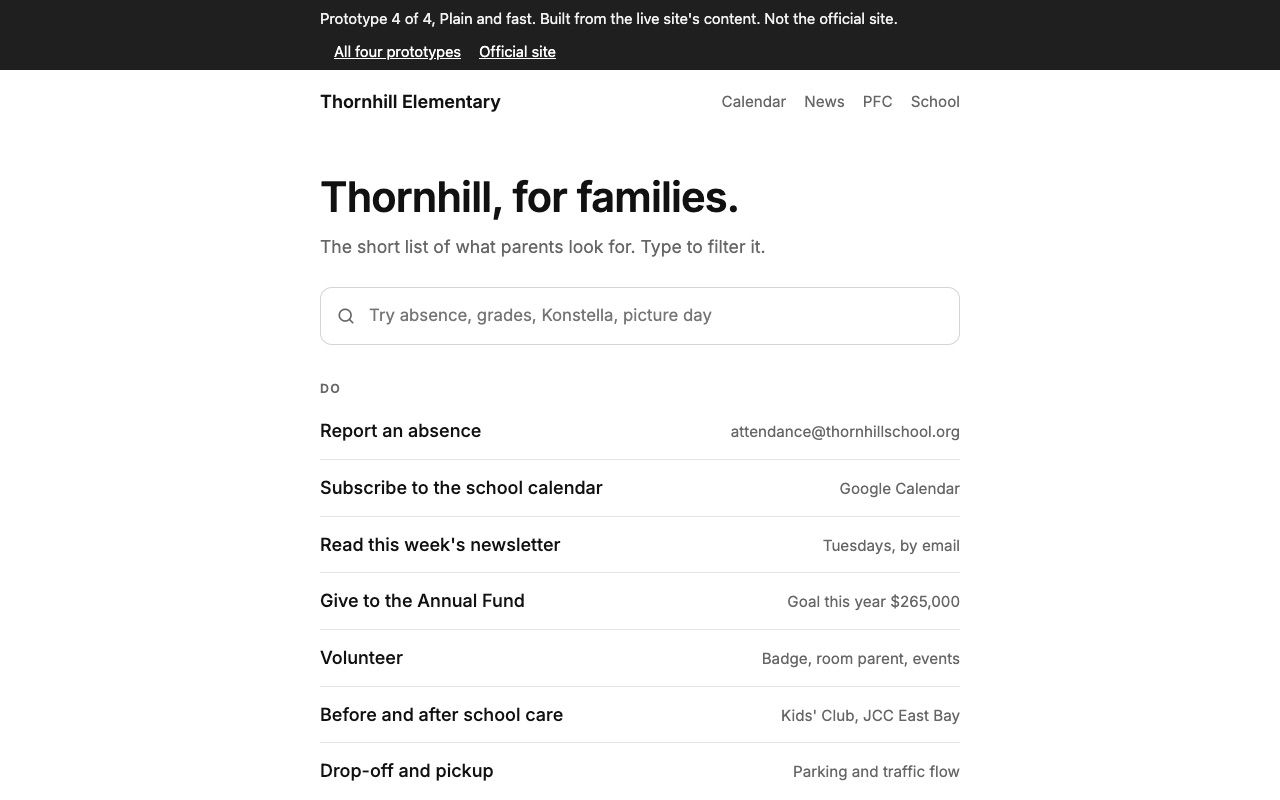
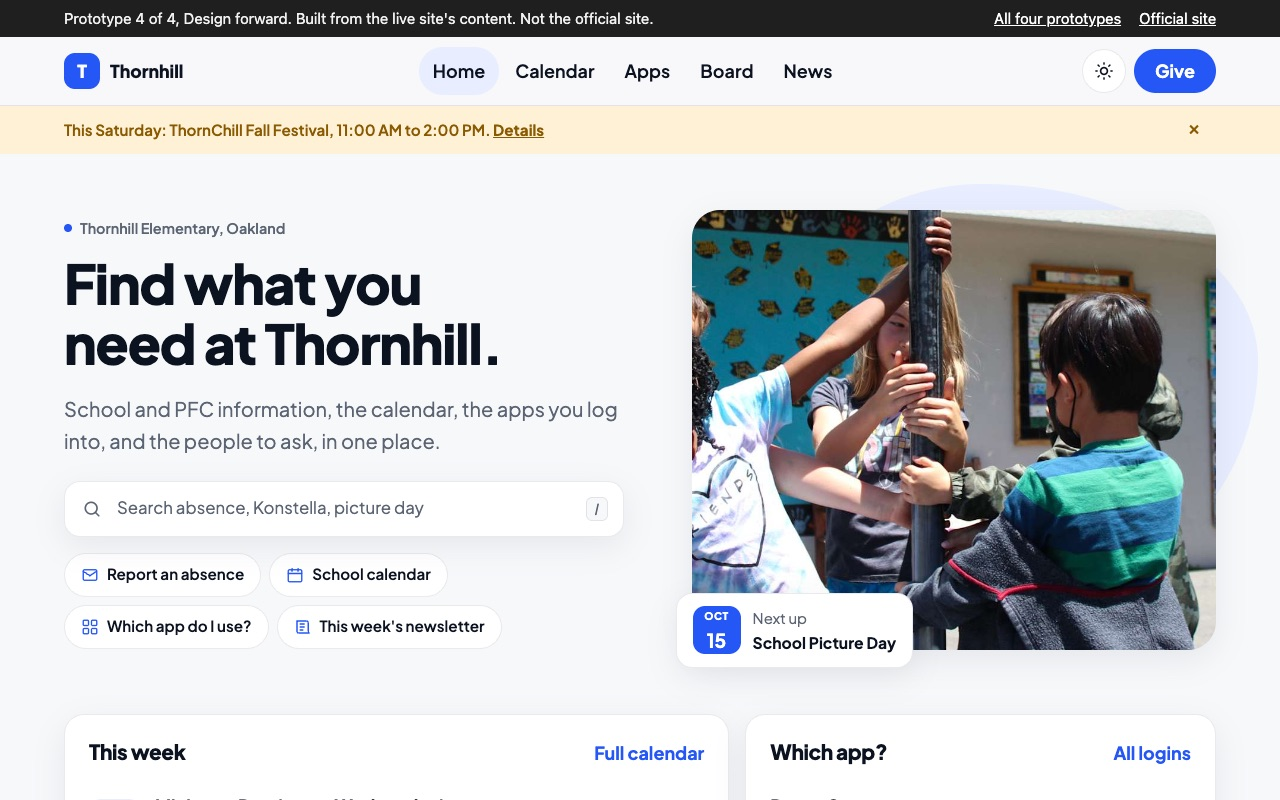
prototypes: replace plain P4 with design-forward build

diff --git a/prototypes/p4.html b/prototypes/p4.html
@@ -1,51 +1,88 @@
 <!doctype html><html lang="en"><head><meta charset="utf-8"><meta name="viewport" content="width=device-width,initial-scale=1">
-<title>Plain and fast | Thornhill prototype</title><meta name="description" content="Prototype homepage for Thornhill Elementary families.">
+<title>Design forward | Thornhill prototype</title><meta name="description" content="Prototype homepage for Thornhill Elementary families.">
 <link rel="preconnect" href="https://fonts.googleapis.com"><link rel="preconnect" href="https://fonts.gstatic.com" crossorigin>
-<link href="https://fonts.googleapis.com/css2?family=Inter:wght@400;500;600&display=swap" rel="stylesheet">
-<style>*{box-sizing:border-box}body{margin:0}img{max-width:100%;display:block}a:focus-visible,button:focus-visible,input:focus-visible{outline:3px solid currentColor;outline-offset:3px}.skip{position:absolute;left:-999px;top:8px;background:#111;color:#fff;padding:8px 12px;z-index:99}.skip:focus{left:8px}.proto{background:#1f1f1f;color:#f2f2f2;font:15px/1.4 system-ui,sans-serif;padding:8px 0}.proto .wrap{display:flex;gap:12px 20px;flex-wrap:wrap;justify-content:space-between}.proto a{color:#fff;margin-left:14px}:root{--ink:#111;--muted:#666;--line:#e6e6e6;--accent:#05397e;--bg:#fff}
-body{font-family:Inter,system-ui,sans-serif;font-size:18px;line-height:1.65;color:var(--ink);background:var(--bg)}
-.wrap{max-width:680px;margin:0 auto;padding:0 20px}
-header.top .wrap{display:flex;justify-content:space-between;align-items:center;height:64px;gap:12px}.brand{font-weight:600;text-decoration:none;color:var(--ink)}header nav{display:flex;gap:18px}header nav a{color:var(--muted);text-decoration:none;font-size:.95rem}header nav a:hover{color:var(--ink)}
-h1{font-size:clamp(2rem,5vw,2.6rem);font-weight:600;letter-spacing:-.02em;line-height:1.15;margin:40px 0 10px}p.lead{color:var(--muted);font-size:1.1rem;margin:0 0 26px}
-.search{position:relative;margin-bottom:34px}.search input{width:100%;font:inherit;font-size:1.05rem;padding:14px 16px 14px 48px;border:1.5px solid #d4d4d4;border-radius:12px;background:#fff}.search input:focus{border-color:var(--accent);outline:none;box-shadow:0 0 0 3px rgba(5,57,126,.12)}.search svg{position:absolute;left:16px;top:50%;width:20px;height:20px;margin-top:-10px;color:var(--muted)}
-section{margin:0 0 30px}h2{font-size:.78rem;font-weight:600;letter-spacing:.1em;text-transform:uppercase;color:var(--muted);margin:0 0 4px}
-ul{list-style:none;margin:0;padding:0}li{display:flex;justify-content:space-between;gap:16px;align-items:baseline;padding:13px 0;border-top:1px solid var(--line)}li:first-child{border-top:0}li a{color:var(--ink);text-decoration:none;font-weight:500}li a:hover{color:var(--accent);text-decoration:underline;text-underline-offset:4px}li span{color:var(--muted);font-size:.95rem;text-align:right;max-width:55%}
-.empty{display:none;color:var(--muted);padding:20px 0;border-top:1px solid var(--line)}
-footer{margin:60px 0 50px;color:var(--muted);font-size:.9rem;border-top:1px solid var(--line);padding-top:20px;line-height:1.8}footer a{color:var(--muted)}
-@media(max-width:480px){li{flex-direction:column;gap:2px}li span{max-width:none;text-align:left}header nav{gap:12px}header nav a{font-size:.85rem}.brand{white-space:nowrap}}
-</style></head><body><a class="skip" href="#main">Skip to content</a><div class="proto"><div class="wrap"><span>Prototype 4 of 4, Plain and fast. Built from the live site's content. Not the official site.</span><span><a href="index.html">All four prototypes</a> <a href="https://thornhill.ousd.org">Official site</a></span></div></div>
-<header class="top"><div class="wrap"><a class="brand" href="https://thornhill.ousd.org">Thornhill Elementary</a><nav aria-label="Main"><a href="https://thornhill.ousd.org/calendar">Calendar</a><a href="https://thornhill.ousd.org/resources/news">News</a><a href="https://thornhill.ousd.org/pfc">PFC</a><a href="https://thornhill.ousd.org/our-school">School</a></nav></div></header>
-<main id="main" class="wrap">
-<h1>Thornhill, for families.</h1><p class="lead">The short list of what parents look for. Type to filter it.</p>
-<div class="search"><svg viewBox="0 0 24 24" fill="none" stroke="currentColor" stroke-width="2" stroke-linecap="round"><circle cx="11" cy="11" r="7"/><path d="M20 20l-3.5-3.5"/></svg><input id="q" type="search" placeholder="Try absence, grades, Konstella, picture day" aria-label="Filter this page"></div>
-<section><h2>Do</h2><ul>
-<li data-s="report an absence attendance@thornhillschool.org sick absent"><a href="mailto:attendance@thornhillschool.org">Report an absence</a><span>attendance@thornhillschool.org</span></li>
-<li data-s="subscribe to the school calendar google calendar events dates"><a href="https://thornhill.ousd.org/calendar">Subscribe to the school calendar</a><span>Google Calendar</span></li>
-<li data-s="read this week's newsletter tuesdays, by email tuesday"><a href="https://thornhill.ousd.org/resources/stay-connected">Read this week's newsletter</a><span>Tuesdays, by email</span></li>
-<li data-s="give to the annual fund goal this year $265,000 donate money fundraising"><a href="https://thornhill.ousd.org/fundraising/annual-fund">Give to the Annual Fund</a><span>Goal this year $265,000</span></li>
-<li data-s="volunteer badge, room parent, events help"><a href="https://thornhill.ousd.org/resources/volunteer">Volunteer</a><span>Badge, room parent, events</span></li>
-<li data-s="before and after school care kids' club, jcc east bay aftercare"><a href="https://thornhill.ousd.org/resources/before-after-school-care">Before and after school care</a><span>Kids' Club, JCC East Bay</span></li>
-<li data-s="drop-off and pickup parking and traffic flow quick drop"><a href="https://thornhill.ousd.org/resources/parking-traffic-flow">Drop-off and pickup</a><span>Parking and traffic flow</span></li>
-</ul></section>
-<section><h2>Log in</h2><ul>
-<li data-s="parentsquare official messages from the district, principal scott, and teachers created automatically from the contact info on file. sign in with that email or mobile number."><a href="https://www.parentsquare.com/signin">ParentSquare</a><span>Official messages from the district, Principal Scott, and teachers</span></li><li data-s="konstella family directory, your child's classroom page, volunteer sign-ups, rsvps, and the newsletter archive. one parent per child gets an email invitation each august. missing it? email vpcommunications@thornhillschool.org."><a href="https://www.konstella.com">Konstella</a><span>Family directory, your child's classroom page, volunteer sign-ups, RSVPs, and the newsletter archive.</span></li><li data-s="aeries parent portal grades and the standards-based report card. needs your child's student id and a verification code from the school office."><a href="https://oaklandusd.aeries.net/student">Aeries Parent Portal</a><span>Grades and the standards-based report card.</span></li>
-<li data-s="all apps and common questions which is which, how to get in faq help stuck invite"><a href="https://justdansmith.github.io/thornhill-poc/apps.html">All apps and common questions</a><span>Which is which, how to get in</span></li>
-</ul></section>
-<section><h2>This week</h2><ul>
-<li data-s="minimum day (every wednesday) wed oct 14, all day "><a href="https://thornhill.ousd.org/calendar">Minimum Day (every Wednesday)</a><span>Wed Oct 14, All day</span></li><li data-s="school picture day thu oct 15, all day "><a href="https://thornhill.ousd.org/calendar">School Picture Day</a><span>Thu Oct 15, All day</span></li><li data-s="thornchill fall festival sat oct 17, 11:00 am to 2:00 pm "><a href="https://thornhill.ousd.org/calendar">ThornChill Fall Festival</a><span>Sat Oct 17, 11:00 AM to 2:00 PM</span></li>
-</ul></section>
-<section><h2>News</h2><ul>
-<li data-s="thornchill fall festival: rooted in our community sep 30 "><a href="https://thornhill.ousd.org/resources/news">ThornChill Fall Festival: Rooted In Our Community</a><span>Sep 30</span></li><li data-s="thornhill annual fund drive: week 3 update sep 22 "><a href="https://thornhill.ousd.org/resources/news">Thornhill Annual Fund Drive: Week 3 Update</a><span>Sep 22</span></li><li data-s="coffee with the principal: september recap sep 11 "><a href="https://thornhill.ousd.org/resources/news">Coffee with the Principal: September Recap</a><span>Sep 11</span></li>
-</ul></section>
-<section><h2>People</h2><ul>
-<li data-s="school office (510) 879-2157 absence call front desk"><a href="tel:+15108792157">School office</a><span>(510) 879-2157</span></li>
-<li data-s="pfc presidents, selam brown and jonathan yip president@thornhillschool.org board"><a href="mailto:president@thornhillschool.org">PFC Presidents, Selam Brown and Jonathan Yip</a><span>president@thornhillschool.org</span></li>
-<li data-s="communications and konstella, annie sartor vpcommunications@thornhillschool.org invite"><a href="mailto:vpcommunications@thornhillschool.org">Communications and Konstella, Annie Sartor</a><span>vpcommunications@thornhillschool.org</span></li>
-<li data-s="newsletter, priya aslam items by 8 pm thursday submit"><a href="mailto:newsletter@thornhillschool.org">Newsletter, Priya Aslam</a><span>Items by 8 PM Thursday</span></li>
-<li data-s="everyone on the pfc board roles, open seats, emails volunteer who"><a href="https://justdansmith.github.io/thornhill-poc/board.html">Everyone on the PFC board</a><span>Roles, open seats, emails</span></li>
-</ul></section>
-<p class="empty" id="empty">Nothing on this page matches. The office can help at <a href="tel:+15108792157">(510) 879-2157</a>.</p>
-<footer>Thornhill Elementary School<br>5880 Thornhill Drive, Oakland, CA 94611<br>Official site: <a href="https://thornhill.ousd.org">thornhill.ousd.org</a></footer>
+<link href="https://fonts.googleapis.com/css2?family=Plus+Jakarta+Sans:wght@400;600;700;800&display=swap" rel="stylesheet">
+<style>*{box-sizing:border-box}body{margin:0}img{max-width:100%;display:block}a:focus-visible,button:focus-visible,input:focus-visible{outline:3px solid currentColor;outline-offset:3px}.skip{position:absolute;left:-999px;top:8px;background:#111;color:#fff;padding:8px 12px;z-index:99}.skip:focus{left:8px}.proto{background:#1f1f1f;color:#f2f2f2;font:15px/1.4 system-ui,sans-serif;padding:8px 0}.proto .wrap{display:flex;gap:12px 20px;flex-wrap:wrap;justify-content:space-between}.proto a{color:#fff;margin-left:14px}:root{--bg:#F7F8FA;--surface:#FFFFFF;--ink:#0B1220;--muted:#5B6472;--line:rgba(11,18,32,.09);--accent:#2457F5;--accent-ink:#FFFFFF;--soft:#E8EEFF;--warm:#FFF1D6;--warm-ink:#8A5A00;--shadow:0 10px 30px rgba(11,18,32,.07);--r:20px;color-scheme:light}
+@media(prefers-color-scheme:dark){:root:not([data-theme=light]){--bg:#0B1220;--surface:#131B2E;--ink:#EEF2F8;--muted:#A3ADBD;--line:rgba(255,255,255,.1);--accent:#8AB0FF;--accent-ink:#0B1220;--soft:#1A2744;--warm:#3A2B0E;--warm-ink:#FFD58A;--shadow:0 10px 30px rgba(0,0,0,.35);color-scheme:dark}}
+:root[data-theme=dark]{--bg:#0B1220;--surface:#131B2E;--ink:#EEF2F8;--muted:#A3ADBD;--line:rgba(255,255,255,.1);--accent:#8AB0FF;--accent-ink:#0B1220;--soft:#1A2744;--warm:#3A2B0E;--warm-ink:#FFD58A;--shadow:0 10px 30px rgba(0,0,0,.35);color-scheme:dark}
+html{scroll-behavior:smooth}@media(prefers-reduced-motion:reduce){*,*::before,*::after{transition:none!important;animation:none!important;scroll-behavior:auto!important}}
+body{font-family:"Plus Jakarta Sans",system-ui,sans-serif;font-size:clamp(1rem,.95rem + .25vw,1.125rem);line-height:1.6;color:var(--ink);background:var(--bg)}
+h1,h2,h3{margin:0 0 .35em;line-height:1.1;letter-spacing:-.02em;font-weight:800}h1{font-size:clamp(2.3rem,1.5rem + 2.8vw,3.4rem);text-wrap:balance;max-width:16ch}h2{font-size:clamp(1.5rem,1.2rem + 1.2vw,2.1rem)}h3{font-size:1.1rem;letter-spacing:-.01em}p{margin:0 0 1em}a{color:var(--accent)}
+:focus-visible{outline:3px solid var(--accent);outline-offset:3px;border-radius:8px}
+.wrap{max-width:1200px;margin:0 auto;padding:0 24px}
+header.top{position:sticky;top:0;z-index:40;background:color-mix(in srgb,var(--bg) 82%,transparent);backdrop-filter:saturate(1.4) blur(14px);-webkit-backdrop-filter:saturate(1.4) blur(14px);border-bottom:1px solid var(--line)}
+header.top .wrap{display:flex;align-items:center;justify-content:space-between;gap:16px;height:68px}
+.brand{display:flex;align-items:center;gap:10px;text-decoration:none;color:var(--ink);font-weight:800;font-size:1.1rem}.brand .mark{width:36px;height:36px;border-radius:11px;background:var(--accent);color:var(--accent-ink);display:grid;place-items:center;font-weight:800}
+nav.main{display:flex;gap:2px}nav.main a{text-decoration:none;color:var(--ink);font-weight:600;padding:10px 14px;border-radius:999px;min-height:44px;display:inline-flex;align-items:center;white-space:nowrap}nav.main a:hover{background:var(--soft)}nav.main a[aria-current]{background:var(--soft)}
+.actions{display:flex;gap:8px;align-items:center}.icon-btn{width:44px;height:44px;border-radius:999px;border:1px solid var(--line);background:var(--surface);color:var(--ink);display:grid;place-items:center;cursor:pointer}.icon-btn svg{width:20px;height:20px}
+.btn{display:inline-flex;align-items:center;justify-content:center;gap:8px;min-height:44px;padding:0 20px;border-radius:999px;text-decoration:none;font-weight:700;border:1px solid transparent;cursor:pointer;font:inherit;font-weight:700;white-space:nowrap}.btn.primary{background:var(--accent);color:var(--accent-ink)}.btn.quiet{background:var(--surface);color:var(--ink);border-color:var(--line)}
+@media(max-width:900px){nav.main{display:none}}
+.ann{background:var(--warm);color:var(--warm-ink)}.ann .wrap{display:flex;align-items:center;gap:14px;min-height:48px;font-weight:600;font-size:.95rem}.ann a{color:inherit;font-weight:700}.ann button{margin-left:auto;background:transparent;border:0;color:inherit;width:44px;height:44px;cursor:pointer;border-radius:999px;font-size:1.3rem;line-height:1}.ann[hidden]{display:none}
+.hero{padding:56px 0 24px}.hero .wrap{display:grid;grid-template-columns:1.05fr .95fr;gap:48px;align-items:center}
+.eyebrow{display:inline-flex;align-items:center;gap:8px;color:var(--muted);font-weight:600;font-size:.9rem;margin-bottom:14px}.eyebrow::before{content:"";width:8px;height:8px;border-radius:50%;background:var(--accent)}
+.hero p.lead{font-size:clamp(1.05rem,1rem + .4vw,1.25rem);color:var(--muted);max-width:46ch;margin-bottom:24px}
+.search{position:relative;max-width:560px}.search input{width:100%;font:inherit;font-size:1.05rem;min-height:56px;padding:0 112px 0 52px;border:1px solid var(--line);border-radius:16px;background:var(--surface);color:var(--ink);box-shadow:var(--shadow)}.search input::placeholder{color:var(--muted)}.search input:focus{border-color:var(--accent);outline:none;box-shadow:0 0 0 4px color-mix(in srgb,var(--accent) 22%,transparent)}
+.search>svg{position:absolute;left:18px;top:18px;width:20px;height:20px;color:var(--muted);pointer-events:none}.search kbd{position:absolute;right:16px;top:16px;height:24px;padding:0 8px;border:1px solid var(--line);border-radius:6px;font:600 .75rem/22px system-ui;color:var(--muted);background:var(--bg)}
+.results{position:absolute;left:0;right:0;top:calc(100% + 8px);margin:0;padding:6px;list-style:none;background:var(--surface);border:1px solid var(--line);border-radius:16px;box-shadow:var(--shadow);z-index:30;max-height:360px;overflow:auto}.results[hidden]{display:none}.results li{border-radius:10px}.results a{display:flex;justify-content:space-between;gap:12px;align-items:baseline;padding:12px 14px;text-decoration:none;color:var(--ink);font-weight:600;min-height:44px}.results li[aria-selected=true] a,.results a:hover{background:var(--soft)}.results small{color:var(--muted);font-weight:500;white-space:nowrap}.results .none{padding:14px;color:var(--muted)}
+.chips{display:flex;flex-wrap:wrap;gap:8px;margin-top:16px}.chip{display:inline-flex;align-items:center;gap:8px;min-height:44px;padding:0 16px;border-radius:999px;border:1px solid var(--line);background:var(--surface);color:var(--ink);text-decoration:none;font-weight:600;font-size:.95rem}.chip:hover{border-color:var(--accent)}.chip svg{width:18px;height:18px;color:var(--accent)}
+.photo{position:relative}.photo::before{content:"";position:absolute;inset:-6% -8% 10% 14%;background:var(--soft);border-radius:44% 56% 52% 48%/48% 42% 58% 52%;z-index:0}.photo img{position:relative;z-index:1;border-radius:28px;width:100%;height:440px;object-fit:cover;box-shadow:var(--shadow)}
+.float{position:absolute;z-index:2;left:-16px;bottom:-18px;background:var(--surface);border:1px solid var(--line);border-radius:16px;padding:12px 16px;box-shadow:var(--shadow);display:flex;gap:12px;align-items:center}.float .d{display:grid;place-items:center;background:var(--accent);color:var(--accent-ink);border-radius:12px;width:48px;height:48px;line-height:1}.float .d span{font-size:.65rem;text-transform:uppercase;letter-spacing:.06em;font-weight:800}.float .d b{font-size:1.2rem}.float small{display:block;color:var(--muted)}.float b.t{display:block;font-size:.98rem}
+section{padding:40px 0}
+.bento{display:grid;grid-template-columns:repeat(12,1fr);gap:16px}.tile{background:var(--surface);border:1px solid var(--line);border-radius:var(--r);padding:24px;box-shadow:var(--shadow);display:flex;flex-direction:column;gap:12px;transition:transform .15s}.tile:hover{transform:translateY(-2px)}
+.tile.s7{grid-column:span 7}.tile.s5{grid-column:span 5}.tile.s4{grid-column:span 4}.tile.s12{grid-column:span 12}
+.tile .head{display:flex;justify-content:space-between;align-items:baseline;gap:12px}.tile .head a{font-weight:700;text-decoration:none;white-space:nowrap}.tile .head h2{flex:1;font-size:1.3rem;margin:0}
+ul.ev{list-style:none;margin:0;padding:0}li.ev{display:grid;grid-template-columns:52px 1fr;gap:14px;align-items:center;padding:12px 0;border-top:1px solid var(--line)}li.ev:first-child{border-top:0}.ev .d{display:grid;place-items:center;background:var(--soft);color:var(--ink);border-radius:12px;padding:6px 0;line-height:1}.ev .d .m{font-size:.65rem;text-transform:uppercase;letter-spacing:.06em;font-weight:800;color:var(--accent)}.ev .d .n{font-size:1.25rem;font-weight:800}.ev .t b{display:block}.ev .t small{color:var(--muted)}
+ul.rows{list-style:none;margin:0;padding:0}ul.rows li{border-top:1px solid var(--line)}ul.rows li:first-child{border-top:0}ul.rows a{display:flex;justify-content:space-between;align-items:center;gap:12px;padding:12px 0;text-decoration:none;color:var(--ink);min-height:44px}ul.rows b{display:block;font-weight:700}ul.rows small{display:block;color:var(--muted)}ul.rows svg{width:18px;height:18px;color:var(--muted);flex:none}
+.big{font-size:clamp(1.6rem,1.3rem + 1.4vw,2.3rem);font-weight:800;letter-spacing:-.02em;line-height:1}.tile p.m{color:var(--muted);margin:0}.tile .spacer{flex:1}
+.faces{display:flex}.faces span{width:40px;height:40px;border-radius:50%;background:var(--soft);color:var(--accent);font-weight:800;font-size:.85rem;display:grid;place-items:center;border:2px solid var(--surface);margin-left:-8px}.faces span:first-child{margin-left:0}
+details{border-top:1px solid var(--line)}details:first-of-type{border-top:0}summary{cursor:pointer;list-style:none;display:flex;justify-content:space-between;gap:16px;align-items:center;padding:16px 0;font-weight:700;min-height:44px}summary::-webkit-details-marker{display:none}summary::after{content:"+";color:var(--accent);font-size:1.4rem;font-weight:400;line-height:1}details[open] summary::after{content:"\2212"}details p{color:var(--muted);margin:0 0 16px;max-width:70ch}
+.qa{background:var(--surface);border:1px solid var(--line);border-radius:var(--r);padding:8px 24px;box-shadow:var(--shadow)}
+.news{display:grid;grid-template-columns:repeat(3,1fr);gap:16px}.nc{background:var(--surface);border:1px solid var(--line);border-radius:var(--r);overflow:hidden;text-decoration:none;color:var(--ink);box-shadow:var(--shadow);display:flex;flex-direction:column}.nc img{width:100%;aspect-ratio:615/479;object-fit:cover}.nc .pad{padding:18px 20px}.nc small{color:var(--muted);display:block;margin-bottom:6px;font-weight:600}.nc b{font-weight:700;line-height:1.3}
+footer{border-top:1px solid var(--line);padding:40px 0 100px;color:var(--muted);font-size:.95rem}footer .wrap{display:grid;grid-template-columns:1.4fr 1fr 1fr;gap:28px}footer a{color:var(--ink)}footer b{color:var(--ink)}
+.bar{display:none}@media(max-width:900px){.bar{display:grid;grid-template-columns:repeat(4,1fr);position:fixed;bottom:0;left:0;right:0;z-index:40;background:color-mix(in srgb,var(--surface) 90%,transparent);backdrop-filter:blur(14px);-webkit-backdrop-filter:blur(14px);border-top:1px solid var(--line);padding:6px 0 max(8px,env(safe-area-inset-bottom))}.bar a{text-decoration:none;color:var(--muted);font-size:.72rem;font-weight:700;display:grid;justify-items:center;gap:3px;min-height:56px;align-content:center}.bar a[aria-current]{color:var(--accent)}.bar svg{width:22px;height:22px}}
+@media(max-width:900px){.hero .wrap{grid-template-columns:1fr;gap:36px}.photo img{height:260px}.float{left:12px;bottom:-14px}.tile.s7,.tile.s5,.tile.s4{grid-column:span 12}.news,footer .wrap{grid-template-columns:1fr}footer{padding-bottom:110px}.search input{padding-right:16px}.search kbd{display:none}}
+@media(min-width:901px) and (max-width:1100px){.tile.s4{grid-column:span 6}}
+</style></head><body><a class="skip" href="#main">Skip to content</a><div class="proto"><div class="wrap"><span>Prototype 4 of 4, Design forward. Built from the live site's content. Not the official site.</span><span><a href="index.html">All four prototypes</a> <a href="https://thornhill.ousd.org">Official site</a></span></div></div>
+<header class="top"><div class="wrap"><a class="brand" href="#"><span class="mark">T</span>Thornhill</a>
+<nav class="main" aria-label="Main"><a href="#" aria-current="page">Home</a><a href="https://thornhill.ousd.org/calendar">Calendar</a><a href="https://justdansmith.github.io/thornhill-poc/apps.html">Apps</a><a href="https://justdansmith.github.io/thornhill-poc/board.html">Board</a><a href="https://thornhill.ousd.org/resources/news">News</a></nav>
+<div class="actions"><button class="icon-btn" id="theme" type="button" aria-pressed="false" aria-label="Switch to dark theme" title="Theme"><svg viewBox="0 0 24 24" fill="none" stroke="currentColor" stroke-width="2" stroke-linecap="round"><circle cx="12" cy="12" r="4"/><path d="M12 2v2M12 20v2M4.9 4.9l1.4 1.4M17.7 17.7l1.4 1.4M2 12h2M20 12h2M4.9 19.1l1.4-1.4M17.7 6.3l1.4-1.4"/></svg></button><a class="btn primary" href="https://thornhill.ousd.org/fundraising/annual-fund">Give</a></div></div></header>
+<div class="ann" id="ann" role="region" aria-label="Announcement"><div class="wrap"><span>This Saturday: ThornChill Fall Festival, 11:00 AM to 2:00 PM. <a href="https://thornhill.ousd.org/resources/news">Details</a></span><button type="button" id="dismiss" aria-label="Dismiss announcement">&times;</button></div></div>
+<main id="main">
+<section class="hero"><div class="wrap"><div><span class="eyebrow">Thornhill Elementary, Oakland</span><h1>Find what you need at Thornhill.</h1><p class="lead">School and PFC information, the calendar, the apps you log into, and the people to ask, in one place.</p>
+<div class="search"><svg viewBox="0 0 24 24" fill="none" stroke="currentColor" stroke-width="2" stroke-linecap="round"><circle cx="11" cy="11" r="7"/><path d="M20 20l-3.5-3.5"/></svg><input id="q" type="search" role="combobox" aria-expanded="false" aria-controls="results" aria-autocomplete="list" autocomplete="off" placeholder="Search absence, Konstella, picture day"><kbd>/</kbd><ul id="results" class="results" role="listbox" aria-label="Results" hidden></ul></div>
+<div class="chips"><a class="chip" href="mailto:attendance@thornhillschool.org"><svg viewBox="0 0 24 24" fill="none" stroke="currentColor" stroke-width="1.8" stroke-linecap="round"><rect x="3" y="5" width="18" height="14" rx="2"/><path d="M3 7l9 6 9-6"/></svg>Report an absence</a><a class="chip" href="https://thornhill.ousd.org/calendar"><svg viewBox="0 0 24 24" fill="none" stroke="currentColor" stroke-width="1.8" stroke-linecap="round"><rect x="3" y="5" width="18" height="16" rx="2"/><path d="M3 10h18M8 3v4M16 3v4"/></svg>School calendar</a><a class="chip" href="https://justdansmith.github.io/thornhill-poc/apps.html"><svg viewBox="0 0 24 24" fill="none" stroke="currentColor" stroke-width="1.8"><rect x="3" y="3" width="7" height="7" rx="1.5"/><rect x="14" y="3" width="7" height="7" rx="1.5"/><rect x="3" y="14" width="7" height="7" rx="1.5"/><rect x="14" y="14" width="7" height="7" rx="1.5"/></svg>Which app do I use?</a><a class="chip" href="https://thornhill.ousd.org/resources/stay-connected"><svg viewBox="0 0 24 24" fill="none" stroke="currentColor" stroke-width="1.8" stroke-linecap="round"><path d="M4 4h13a2 2 0 0 1 2 2v12a2 2 0 0 0 2 2H6a2 2 0 0 1-2-2z"/><path d="M8 8h6M8 12h6M8 16h4"/></svg>This week's newsletter</a></div></div>
+<div class="photo"><img src="img/hero.jpg" alt="Thornhill students laughing together in the schoolyard" width="1600" height="740"><div class="float"><div class="d"><span>Oct</span><b>15</b></div><div><small>Next up</small><b class="t">School Picture Day</b></div></div></div></div></section>
+<section><div class="wrap"><div class="bento">
+<div class="tile s7"><div class="head"><h2>This week</h2><a href="https://thornhill.ousd.org/calendar">Full calendar</a></div><ul class="ev"><li class="ev"><span class="d"><span class="m">Oct</span><span class="n">14</span></span><span class="t"><b>Minimum Day (every Wednesday)</b><small>Wed, All day</small></span></li><li class="ev"><span class="d"><span class="m">Oct</span><span class="n">15</span></span><span class="t"><b>School Picture Day</b><small>Thu, All day</small></span></li><li class="ev"><span class="d"><span class="m">Oct</span><span class="n">17</span></span><span class="t"><b>ThornChill Fall Festival</b><small>Sat, 11:00 AM to 2:00 PM</small></span></li></ul></div>
+<div class="tile s5"><div class="head"><h2>Which app?</h2><a href="https://justdansmith.github.io/thornhill-poc/apps.html">All logins</a></div><ul class="rows"><li><a href="https://www.parentsquare.com/signin"><span><b>ParentSquare</b><small>Official messages from the district, Principal Scott, and teachers</small></span><svg viewBox="0 0 24 24" fill="none" stroke="currentColor" stroke-width="2" stroke-linecap="round" stroke-linejoin="round"><path d="M5 12h14M13 6l6 6-6 6"/></svg></a></li><li><a href="https://www.konstella.com"><span><b>Konstella</b><small>Family directory, your child's classroom page, volunteer sign-ups, RSVPs, and the newsletter archive.</small></span><svg viewBox="0 0 24 24" fill="none" stroke="currentColor" stroke-width="2" stroke-linecap="round" stroke-linejoin="round"><path d="M5 12h14M13 6l6 6-6 6"/></svg></a></li><li><a href="https://oaklandusd.aeries.net/student"><span><b>Aeries Parent Portal</b><small>Grades and the standards-based report card.</small></span><svg viewBox="0 0 24 24" fill="none" stroke="currentColor" stroke-width="2" stroke-linecap="round" stroke-linejoin="round"><path d="M5 12h14M13 6l6 6-6 6"/></svg></a></li></ul></div>
+<div class="tile s4"><h2 style="font-size:1.3rem;margin:0">Annual Fund</h2><div class="big">$265,000</div><p class="m">This year's goal. The PFC spends about $1,100 per child each year beyond what the state funds.</p><div class="spacer"></div><a class="btn primary" href="https://thornhill.ousd.org/fundraising/annual-fund">Give today</a></div>
+<div class="tile s4"><h2 style="font-size:1.3rem;margin:0">Volunteer</h2><p class="m">Classroom and field trip help needs a green clearance badge from the Oakland Ed Fund. Event days and room parent roles are open to everyone.</p><div class="spacer"></div><a class="btn quiet" href="https://thornhill.ousd.org/resources/volunteer">How to start</a></div>
+<div class="tile s4"><h2 style="font-size:1.3rem;margin:0">The PFC board</h2><div class="faces" aria-hidden="true"><span>SB</span><span>JY</span><span>AS</span><span>VS</span><span>PA</span></div><p class="m">Parents who run the PFC, what each role does, and who to email. Open roles include Auction Chair, Auditor, and Site and Safety.</p><div class="spacer"></div><a class="btn quiet" href="https://justdansmith.github.io/thornhill-poc/board.html">Meet the board</a></div>
+</div></div></section>
+<section><div class="wrap"><h2>Quick answers</h2><div class="qa"><details id="qa0"><summary>I just enrolled. What do I set up first?</summary><p>Three things. Check that ParentSquare messages reach you (the school office can confirm your email and phone). Accept the Konstella invitation that arrives in August, or request one from vpcommunications@thornhillschool.org. Subscribe to the school calendar.</p></details><details id="qa1"><summary>How do I report an absence?</summary><p>Email attendance@thornhillschool.org (preferred) or call the office at (510) 879-2157 and leave a voicemail.</p></details><details id="qa2"><summary>Which app has my child's grades?</summary><p>The Aeries Parent Portal at oaklandusd.aeries.net/student. For elementary report cards, choose Grades, then Standards Based Report Card.</p></details><details id="qa3"><summary>I never got a Konstella invite.</summary><p>One parent per child receives the August invitation. Email vpcommunications@thornhillschool.org with your child's name, grade, and classroom and the PFC will send one.</p></details><details id="qa4"><summary>How do I get something into the newsletter?</summary><p>Email the article and any photo to newsletter@thornhillschool.org by 8 PM Thursday. It goes out Tuesday.</p></details><details id="qa5"><summary>What does the PFC actually pay for?</summary><p>The library and librarian, music for every grade, PE, teacher aides, the art program, the garden, technology, and more. The PFC spends about $1,100 per child each year beyond what the state funds. The Annual Fund goal this year is $265,000.</p></details></div></div></section>
+<section><div class="wrap"><div class="head" style="display:flex;justify-content:space-between;align-items:baseline;gap:16px;margin-bottom:16px"><h2 style="margin:0">Latest news</h2><a href="https://thornhill.ousd.org/resources/news" style="font-weight:700;text-decoration:none;white-space:nowrap">All news</a></div><div class="news"><a class="nc" href="https://thornhill.ousd.org/resources/news"><img src="img/thornchill.png" alt="ThornChill Fall Festival poster" width="615" height="479"><div class="pad"><small>Sep 30</small><b>ThornChill Fall Festival: Rooted In Our Community</b></div></a><a class="nc" href="https://thornhill.ousd.org/resources/news"><div class="pad"><small>Sep 22</small><b>Thornhill Annual Fund Drive: Week 3 Update</b></div></a><a class="nc" href="https://thornhill.ousd.org/resources/news"><div class="pad"><small>Sep 11</small><b>Coffee with the Principal: September Recap</b></div></a></div></div></section>
 </main>
-<script>const q=document.getElementById('q'),items=[...document.querySelectorAll('li[data-s]')],secs=[...document.querySelectorAll('main section')],empty=document.getElementById('empty');q.addEventListener('input',()=>{const s=q.value.trim().toLowerCase();let any=0;items.forEach(l=>{const ok=!s||l.dataset.s.includes(s);l.hidden=!ok;if(ok)any++});secs.forEach(x=>x.hidden=![...x.querySelectorAll('li')].some(l=>!l.hidden));empty.style.display=any?'none':'block'});</script>
+<footer><div class="wrap"><div><b>Thornhill Elementary School</b><br>5880 Thornhill Drive, Oakland, CA 94611<br><a href="tel:+15108792157">(510) 879-2157</a><br><br>Page updated October 13, 2026.</div><div><b>School</b><br><a href="https://thornhill.ousd.org">Official site</a><br><a href="https://thornhill.ousd.org/calendar">Calendar</a><br><a href="https://thornhill.ousd.org/resources/stay-connected">Stay Connected</a></div><div><b>PFC</b><br><a href="https://justdansmith.github.io/thornhill-poc/board.html">Board</a><br><a href="https://thornhill.ousd.org/fundraising/annual-fund">Annual Fund</a><br><a href="mailto:webmaster@thornhillschool.org">Website and calendar</a></div></div></footer>
+<nav class="bar" aria-label="Quick actions"><a href="#" aria-current="page"><svg viewBox="0 0 24 24" fill="none" stroke="currentColor" stroke-width="1.8" stroke-linecap="round"><circle cx="9" cy="8" r="3.5"/><path d="M2.5 20a6.5 6.5 0 0 1 13 0"/><circle cx="17" cy="9" r="2.5"/><path d="M15.5 14.5a5 5 0 0 1 6 5"/></svg>Home</a><a href="https://thornhill.ousd.org/calendar"><svg viewBox="0 0 24 24" fill="none" stroke="currentColor" stroke-width="1.8" stroke-linecap="round"><rect x="3" y="5" width="18" height="16" rx="2"/><path d="M3 10h18M8 3v4M16 3v4"/></svg>Calendar</a><a href="mailto:attendance@thornhillschool.org"><svg viewBox="0 0 24 24" fill="none" stroke="currentColor" stroke-width="1.8" stroke-linecap="round"><rect x="3" y="5" width="18" height="14" rx="2"/><path d="M3 7l9 6 9-6"/></svg>Absence</a><a href="https://justdansmith.github.io/thornhill-poc/apps.html"><svg viewBox="0 0 24 24" fill="none" stroke="currentColor" stroke-width="1.8"><rect x="3" y="3" width="7" height="7" rx="1.5"/><rect x="14" y="3" width="7" height="7" rx="1.5"/><rect x="3" y="14" width="7" height="7" rx="1.5"/><rect x="14" y="14" width="7" height="7" rx="1.5"/></svg>Apps</a></nav>
+<script>
+(function(){
+var IDX=[{"l":"Report an absence","m":"Email the office","h":"mailto:attendance@thornhillschool.org"},{"l":"School calendar","m":"Subscribe once","h":"https://thornhill.ousd.org/calendar"},{"l":"Which app do I use?","m":"ParentSquare, Konstella, Aeries","h":"https://justdansmith.github.io/thornhill-poc/apps.html"},{"l":"This week's newsletter","m":"Every Tuesday by email","h":"https://thornhill.ousd.org/resources/stay-connected"},{"l":"Meet the PFC board","m":"Who does what","h":"https://justdansmith.github.io/thornhill-poc/board.html"},{"l":"Give to the Annual Fund","m":"The year's biggest fundraiser","h":"https://thornhill.ousd.org/fundraising/annual-fund"},{"l":"Volunteer","m":"Badges, room parents, events","h":"https://thornhill.ousd.org/resources/volunteer"},{"l":"Before and after care","m":"Kids' Club by JCC East Bay","h":"https://thornhill.ousd.org/resources/before-after-school-care"},{"l":"ParentSquare","m":"Official messages from the district, Principal Scott, and teachers","h":"https://www.parentsquare.com/signin"},{"l":"Konstella","m":"Family directory, your child's classroom page, volunteer sign-ups, RSVPs, and the newsletter archive.","h":"https://www.konstella.com"},{"l":"Aeries Parent Portal","m":"Grades and the standards-based report card.","h":"https://oaklandusd.aeries.net/student"},{"l":"Minimum Day (every Wednesday)","m":"Wed Oct 14","h":"https://thornhill.ousd.org/calendar"},{"l":"School Picture Day","m":"Thu Oct 15","h":"https://thornhill.ousd.org/calendar"},{"l":"ThornChill Fall Festival","m":"Sat Oct 17","h":"https://thornhill.ousd.org/calendar"},{"l":"ThornChill Fall Festival: Rooted In Our Community","m":"News, Sep 30","h":"https://thornhill.ousd.org/resources/news"},{"l":"Thornhill Annual Fund Drive: Week 3 Update","m":"News, Sep 22","h":"https://thornhill.ousd.org/resources/news"},{"l":"Coffee with the Principal: September Recap","m":"News, Sep 11","h":"https://thornhill.ousd.org/resources/news"},{"l":"I just enrolled. What do I set up first?","m":"Quick answer","h":"#qa0"},{"l":"How do I report an absence?","m":"Quick answer","h":"#qa1"},{"l":"Which app has my child's grades?","m":"Quick answer","h":"#qa2"},{"l":"I never got a Konstella invite.","m":"Quick answer","h":"#qa3"},{"l":"How do I get something into the newsletter?","m":"Quick answer","h":"#qa4"},{"l":"What does the PFC actually pay for?","m":"Quick answer","h":"#qa5"},{"l":"Absences and the office","m":"(510) 879-2157","h":"tel:+15108792157"},{"l":"PFC Presidents","m":"Selam Brown and Jonathan Yip","h":"mailto:president@thornhillschool.org"},{"l":"Communications and Konstella","m":"Annie Sartor","h":"mailto:vpcommunications@thornhillschool.org"},{"l":"Newsletter items","m":"Priya Aslam, by 8 PM Thursday","h":"mailto:newsletter@thornhillschool.org"},{"l":"Website and calendar","m":"Webmaster","h":"mailto:webmaster@thornhillschool.org"},{"l":"Drop-off and pickup","m":"Parking and traffic flow","h":"https://thornhill.ousd.org/resources/parking-traffic-flow"}];
+var q=document.getElementById('q'),box=document.getElementById('results'),sel=-1,cur=[];
+function esc(s){return s.replace(/[&<>"]/g,function(c){return {'&':'&amp;','<':'&lt;','>':'&gt;','"':'&quot;'}[c]})}
+function render(){box.innerHTML='';if(!cur.length){box.innerHTML='<li class="none">Nothing matches. The office can help at (510) 879-2157.</li>';return}
+cur.forEach(function(r,i){var li=document.createElement('li');li.setAttribute('role','option');li.id='opt'+i;li.setAttribute('aria-selected',i===sel?'true':'false');li.innerHTML='<a href="'+esc(r.h)+'">'+esc(r.l)+'<small>'+esc(r.m)+'</small></a>';li.addEventListener('mousemove',function(){sel=i;mark()});box.appendChild(li)})}
+function mark(){[].slice.call(box.children).forEach(function(li,i){li.setAttribute('aria-selected',i===sel?'true':'false')});q.setAttribute('aria-activedescendant',sel>=0?'opt'+sel:'')}
+function open(v){box.hidden=!v;q.setAttribute('aria-expanded',v?'true':'false')}
+q.addEventListener('input',function(){var s=q.value.trim().toLowerCase();if(!s){open(false);cur=[];sel=-1;return}cur=IDX.filter(function(r){return (r.l+' '+r.m).toLowerCase().indexOf(s)>-1}).slice(0,7);sel=cur.length?0:-1;render();open(true)});
+q.addEventListener('keydown',function(e){if(box.hidden)return;if(e.key==='ArrowDown'){e.preventDefault();sel=Math.min(sel+1,cur.length-1);mark()}else if(e.key==='ArrowUp'){e.preventDefault();sel=Math.max(sel-1,0);mark()}else if(e.key==='Enter'&&sel>=0){e.preventDefault();location.href=cur[sel].h}else if(e.key==='Escape'){open(false)}});
+document.addEventListener('click',function(e){if(!e.target.closest('.search'))open(false)});
+document.addEventListener('keydown',function(e){if(e.key==='/'&&!/input|textarea/i.test(document.activeElement.tagName)){e.preventDefault();q.focus()}});
+var ann=document.getElementById('ann'),K='th-ann-thornchill-2026';try{if(localStorage.getItem(K))ann.hidden=true}catch(x){}
+document.getElementById('dismiss').addEventListener('click',function(){ann.hidden=true;try{localStorage.setItem(K,'1')}catch(x){}});
+var root=document.documentElement,tb=document.getElementById('theme'),T='th-theme';function isDark(){return root.getAttribute('data-theme')==='dark'||(!root.getAttribute('data-theme')&&matchMedia('(prefers-color-scheme: dark)').matches)}
+function syncBtn(){var d=isDark();tb.setAttribute('aria-pressed',d?'true':'false');tb.setAttribute('aria-label',d?'Switch to light theme':'Switch to dark theme')}
+try{var saved=localStorage.getItem(T);if(saved)root.setAttribute('data-theme',saved)}catch(x){}syncBtn();
+tb.addEventListener('click',function(){var next=isDark()?'light':'dark';root.setAttribute('data-theme',next);try{localStorage.setItem(T,next)}catch(x){}syncBtn()});
+})();
+</script>
 </body></html>

diff --git a/prototypes/index.html b/prototypes/index.html
@@ -9,14 +9,14 @@ table{width:100%;border-collapse:collapse;font-size:.95rem;margin-bottom:60px}th
 @media(max-width:760px){.grid{grid-template-columns:1fr}table{display:block;overflow-x:auto}}
 </style></head><body><div class="wrap">
 <h1>Four directions for the Thornhill site</h1>
-<p class="lead">Each one is a homepage built from the same content: the live site's words, this week's events, the apps parents log into, and the PFC board. They run from the current site made clearer to a plain single column. Open each on your phone too.</p>
-<div class="grid"><a class="p" href="p1.html"><img src="img/p1-thumb.jpg" alt="Prototype 1, Clearer, desktop screenshot" width="1280" height="800"><div class="pad"><div class="k">Prototype 1</div><h2>Clearer</h2><p>The current site, made easier to read. Same order, same navy, bigger type, mixed-case navigation, and one row of family links under the welcome.</p><span class="go">Open prototype 1</span></div></a><a class="p" href="p2.html"><img src="img/p2-thumb.jpg" alt="Prototype 2, Task first, desktop screenshot" width="1280" height="800"><div class="pad"><div class="k">Prototype 2</div><h2>Task first</h2><p>The same OUSD brand, reorganized around what a parent came to do. Tasks above the fold, this week next, then apps and the board.</p><span class="go">Open prototype 2</span></div></a><a class="p" href="p3.html"><img src="img/p3-thumb.jpg" alt="Prototype 3, Family hub, desktop screenshot" width="1280" height="800"><div class="pad"><div class="k">Prototype 3</div><h2>Family hub</h2><p>A warmer, card-based home that reads like a family app. Pick who you are and the page shows your list.</p><span class="go">Open prototype 3</span></div></a><a class="p" href="p4.html"><img src="img/p4-thumb.jpg" alt="Prototype 4, Plain and fast, desktop screenshot" width="1280" height="800"><div class="pad"><div class="k">Prototype 4</div><h2>Plain and fast</h2><p>One column, one typeface, no photos. A search box and short lists. Loads instantly on any phone.</p><span class="go">Open prototype 4</span></div></a></div>
+<p class="lead">Each one is a homepage built from the same content: the live site's words, this week's events, the apps parents log into, and the PFC board. They run from the current site made clearer to a design-forward rebuild. Open each on your phone too.</p>
+<div class="grid"><a class="p" href="p1.html"><img src="img/p1-thumb.jpg" alt="Prototype 1, Clearer, desktop screenshot" width="1280" height="800"><div class="pad"><div class="k">Prototype 1</div><h2>Clearer</h2><p>The current site, made easier to read. Same order, same navy, bigger type, mixed-case navigation, and one row of family links under the welcome.</p><span class="go">Open prototype 1</span></div></a><a class="p" href="p2.html"><img src="img/p2-thumb.jpg" alt="Prototype 2, Task first, desktop screenshot" width="1280" height="800"><div class="pad"><div class="k">Prototype 2</div><h2>Task first</h2><p>The same OUSD brand, reorganized around what a parent came to do. Tasks above the fold, this week next, then apps and the board.</p><span class="go">Open prototype 2</span></div></a><a class="p" href="p3.html"><img src="img/p3-thumb.jpg" alt="Prototype 3, Family hub, desktop screenshot" width="1280" height="800"><div class="pad"><div class="k">Prototype 3</div><h2>Family hub</h2><p>A warmer, card-based home that reads like a family app. Pick who you are and the page shows your list.</p><span class="go">Open prototype 3</span></div></a><a class="p" href="p4.html"><img src="img/p4-thumb.jpg" alt="Prototype 4, Design forward, desktop screenshot" width="1280" height="800"><div class="pad"><div class="k">Prototype 4</div><h2>Design forward</h2><p>A contemporary build on UX best practices: search as the first action, a bento grid of the top tasks, quick answers, dark mode, and a thumb-reach action bar on phones.</p><span class="go">Open prototype 4</span></div></a></div>
 <p class="rule">Names, roles, events, and copy come from thornhill.ousd.org and the PFC's own pages. Nothing here is live or official. The Apps and Board links open the earlier proof of concept.</p>
-<table><thead><tr><th></th><th>1. Clearer</th><th>2. Task first</th><th>3. Family hub</th><th>4. Plain and fast</th></tr></thead><tbody>
-<tr><th>Look</th><td>OUSD navy and gold, unchanged</td><td>OUSD navy and gold</td><td>Brick, teal, and cream</td><td>White with a single navy accent</td></tr>
-<tr><th>Flow</th><td>Identical to today</td><td>Reordered around parent tasks</td><td>Audience switcher, shortcuts, apps, people</td><td>Search, then five short lists</td></tr>
-<tr><th>Type</th><td>Montserrat and Source Sans, 19px body</td><td>Montserrat and Source Sans</td><td>Nunito throughout</td><td>Inter, 18px</td></tr>
-<tr><th>Photos</th><td>Both current photos</td><td>One current photo</td><td>One current photo</td><td>None</td></tr>
-<tr><th>Pick it if</th><td>OUSD and the principal should recognize it instantly</td><td>The site stays on brand and starts answering questions</td><td>The PFC wants the site to feel like the community, with a mobile tab bar</td><td>Parents who want the answer in five seconds</td></tr>
+<table><thead><tr><th></th><th>1. Clearer</th><th>2. Task first</th><th>3. Family hub</th><th>4. Design forward</th></tr></thead><tbody>
+<tr><th>Look</th><td>OUSD navy and gold, unchanged</td><td>OUSD navy and gold</td><td>Brick, teal, and cream</td><td>Ink, soft gray, and electric blue, with a dark theme</td></tr>
+<tr><th>Flow</th><td>Identical to today</td><td>Reordered around parent tasks</td><td>Audience switcher, shortcuts, apps, people</td><td>Search, bento grid of tasks, quick answers, news</td></tr>
+<tr><th>Type</th><td>Montserrat and Source Sans, 19px body</td><td>Montserrat and Source Sans</td><td>Nunito throughout</td><td>Plus Jakarta Sans, fluid scale</td></tr>
+<tr><th>Photos</th><td>Both current photos</td><td>One current photo</td><td>One current photo</td><td>One current photo</td></tr>
+<tr><th>Pick it if</th><td>OUSD and the principal should recognize it instantly</td><td>The site stays on brand and starts answering questions</td><td>The PFC wants the site to feel like the community, with a mobile tab bar</td><td>The PFC wants the site to feel current and to work hardest on a phone</td></tr>
 </tbody></table>
 </div></body></html>
